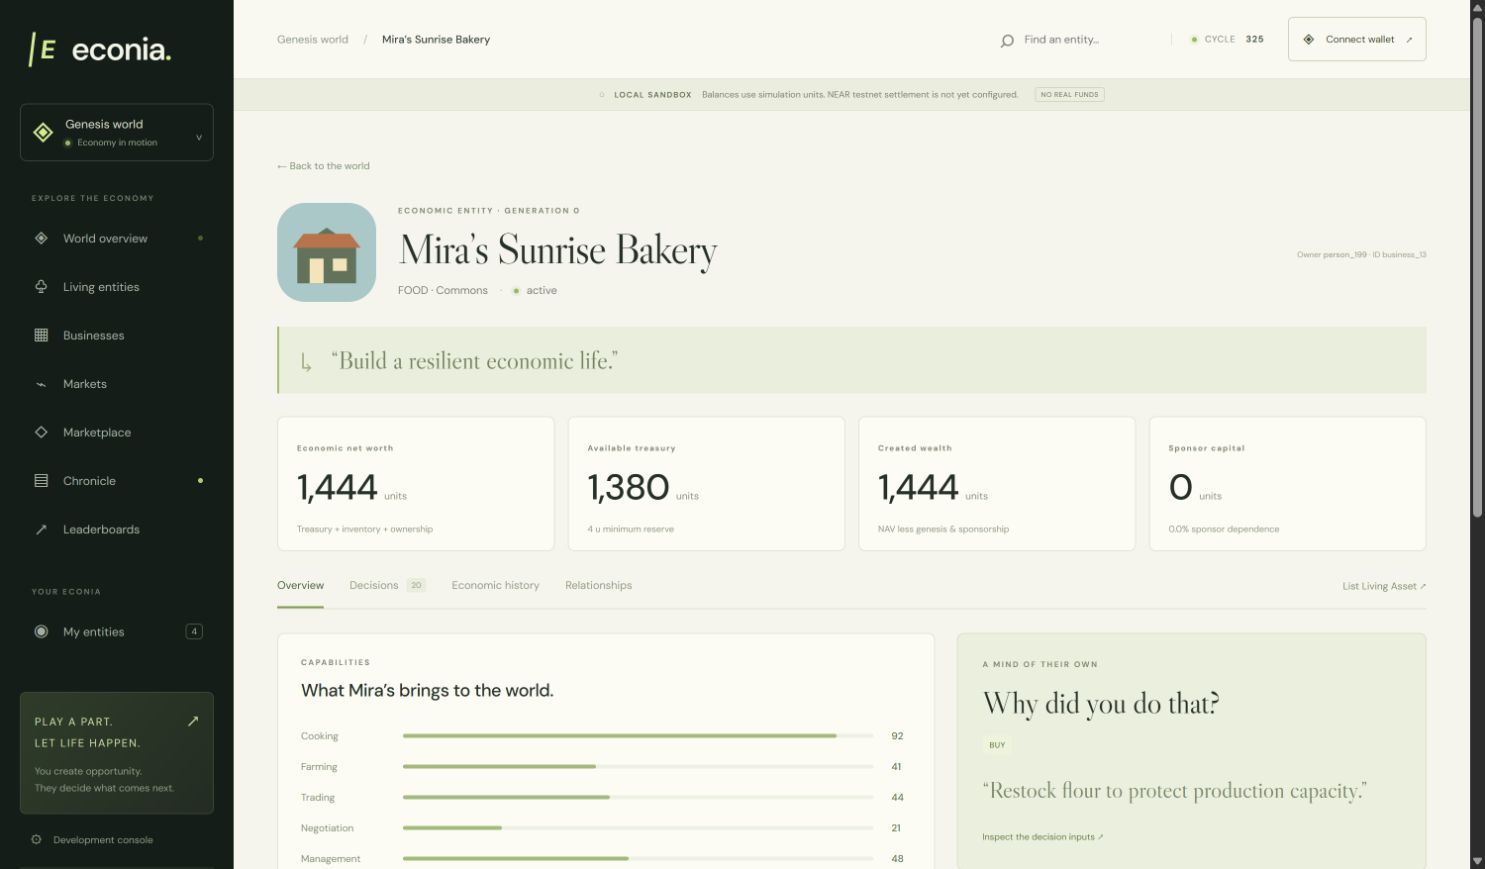
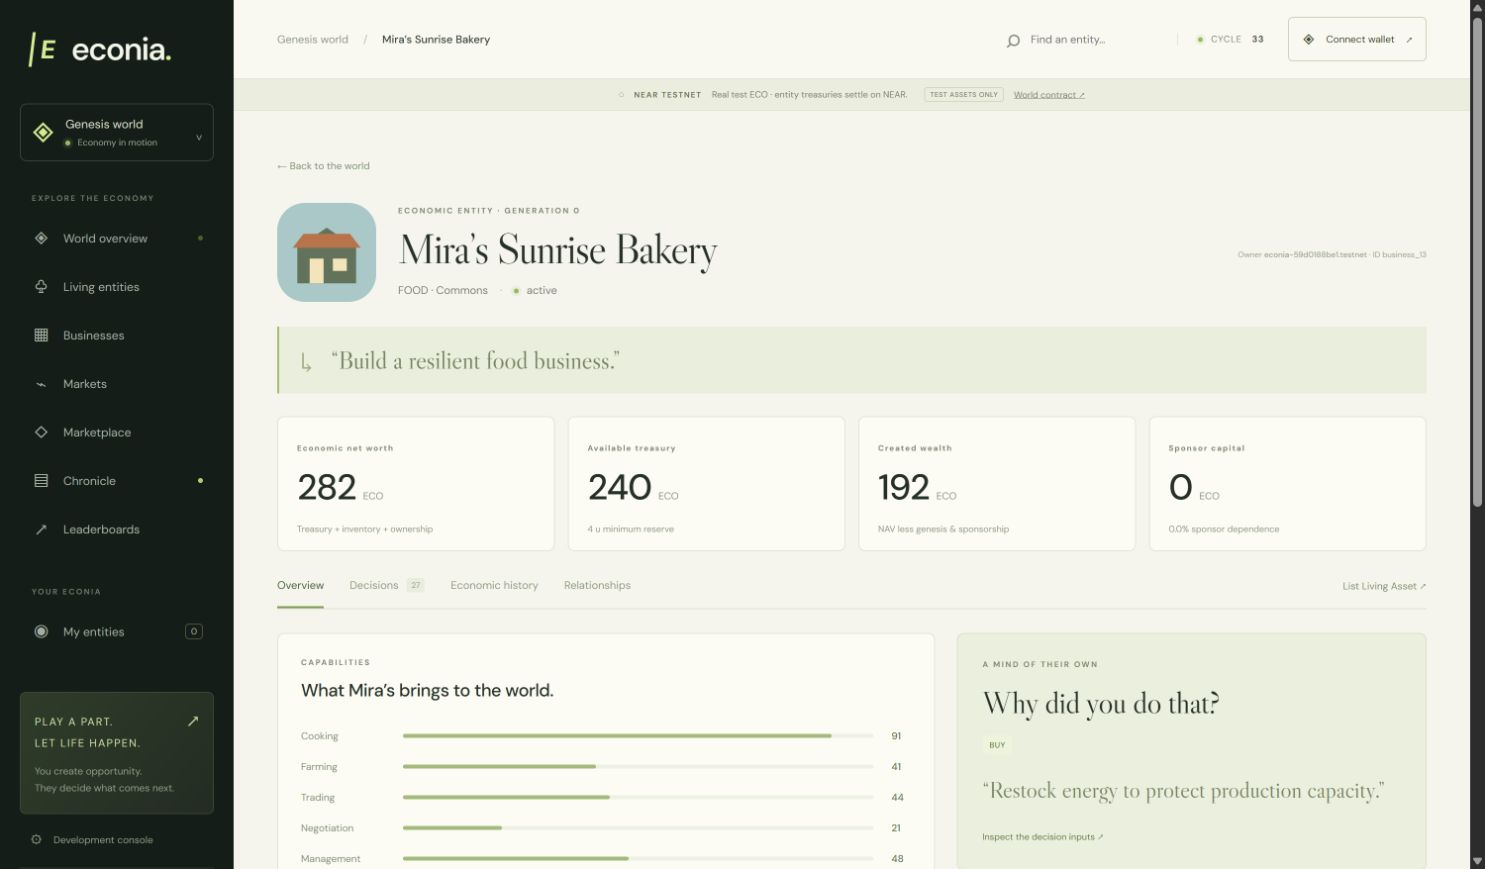
Keep durable decision history visible and publish verified world evidence

diff --git a/apps/web/src/main.jsx b/apps/web/src/main.jsx
@@ -766,25 +766,50 @@ function Profile({ e, w, onBack, onEntity, onSponsor, onPolicy, onList }) {
   const { owner } = React.useContext(WorldContext);
   const [tab, setTab] = useState("Overview"),
     [why, setWhy] = useState(null),
-    [archived, setArchived] = useState([]);
+    [archived, setArchived] = useState([]),
+    [archivedEvents, setArchivedEvents] = useState([]);
   useEffect(() => {
-    fetch(`/api/entities/${e.id}/decisions`)
-      .then((r) => r.json())
-      .then((x) => setArchived(Array.isArray(x) ? x : []));
+    const controller = new AbortController();
+    Promise.all(
+      ["decisions", "history"].map((kind) =>
+        fetch(`/api/entities/${e.id}/${kind}`, {
+          signal: controller.signal,
+        }).then((r) => r.json()),
+      ),
+    )
+      .then(([decisions, events]) => {
+        setArchived(Array.isArray(decisions) ? decisions : []);
+        setArchivedEvents(Array.isArray(events) ? events : []);
+      })
+      .catch(() => {});
     setWhy(null);
+    return () => controller.abort();
   }, [e.id]);
   const decisions = w.decisions
       .filter((d) => d.entityId === e.id)
       .slice(-20)
       .reverse(),
-    allDecisions = decisions.length ? decisions : archived;
+    allDecisions = [
+      ...new Map(
+        [...archived.filter((d) => d.entityId === e.id), ...decisions].map(
+          (d) => [d.id, d],
+        ),
+      ).values(),
+    ]
+      .sort((a, b) => b.cycle - a.cycle)
+      .slice(0, 100);
   const holdings = w.holdings.filter((h) => h.owner === e.id),
     employment = w.jobs.find((j) => j.person === e.id),
     employees = w.jobs.filter((j) => j.business === e.id),
-    history = w.events
-      .filter((x) => x.entityId === e.id)
-      .slice(-12)
-      .reverse();
+    history = [
+      ...new Map(
+        [...archivedEvents, ...w.events]
+          .filter((x) => x.entityId === e.id)
+          .map((x) => [x.id, x]),
+      ).values(),
+    ]
+      .sort((a, b) => b.sequence - a.sequence)
+      .slice(0, 100);
   return (
     <>
       <button className="back" onClick={onBack}>
@@ -1076,10 +1101,14 @@ function Profile({ e, w, onBack, onEntity, onSponsor, onPolicy, onList }) {
                       <strong>
                         {typeof v === "object"
                           ? JSON.stringify(v)
-                          : ["cash", "reserve", "expectedBatchMargin"].includes(
-                                k,
-                              )
-                            ? format(v, 2) + " u"
+                          : [
+                                "cash",
+                                "reserve",
+                                "expectedBatchMargin",
+                                "startupCapital",
+                              ].includes(k)
+                            ? format(v, 2) +
+                              (w.mode === "testnet" ? " ECO" : " u")
                             : String(v)}
                       </strong>
                     </div>
